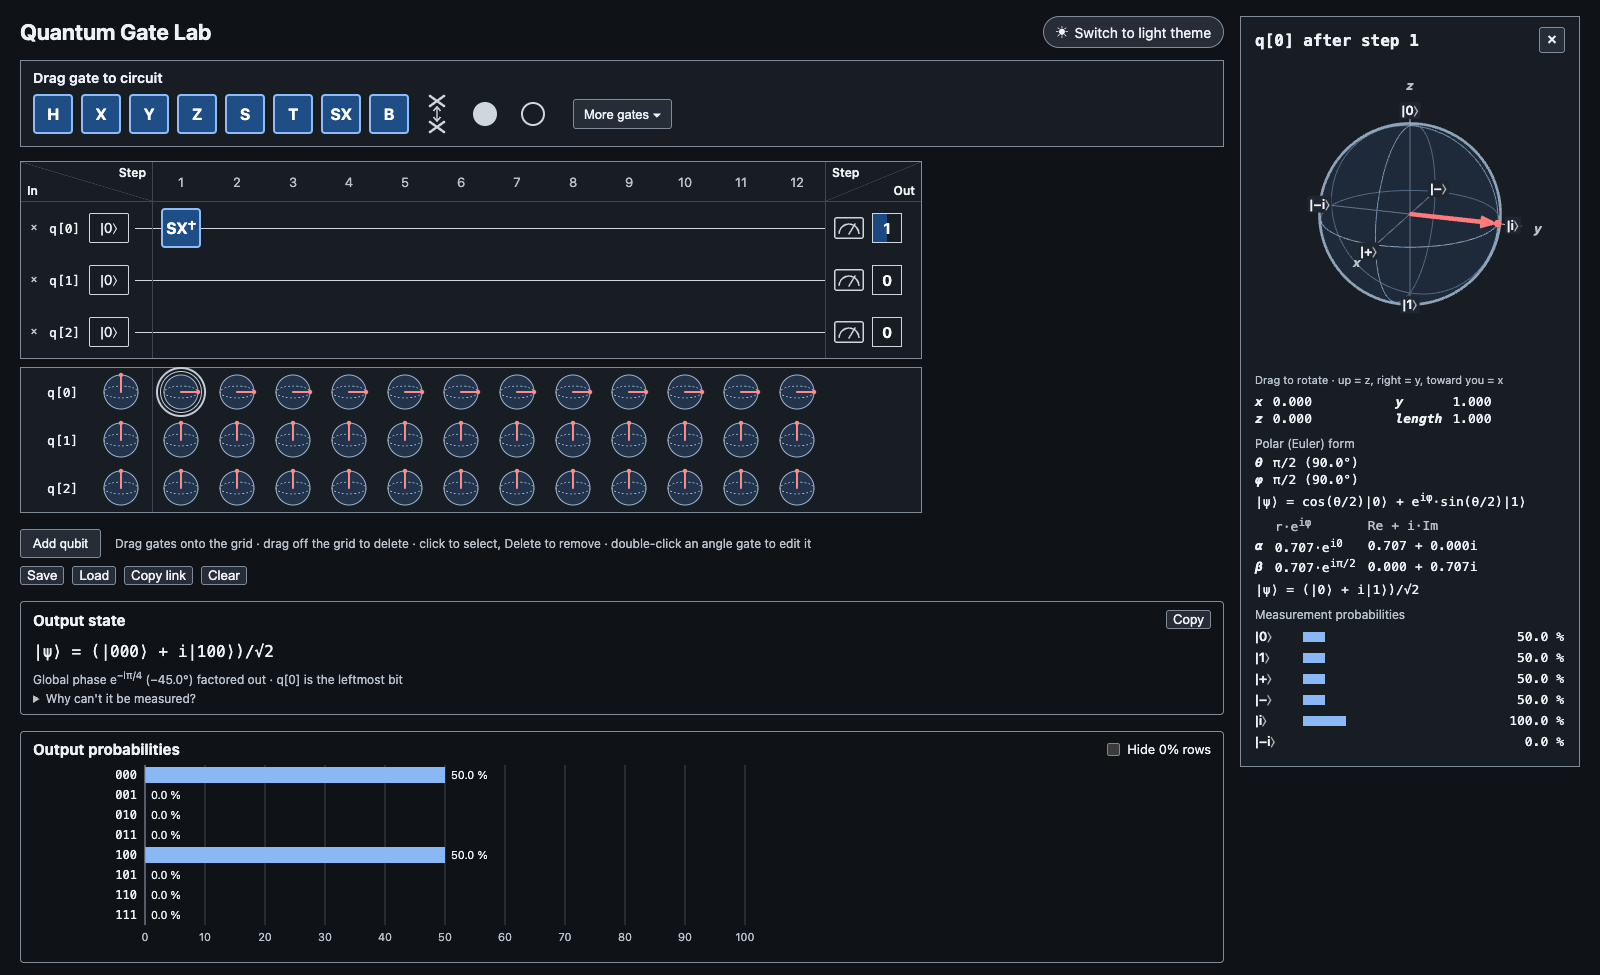
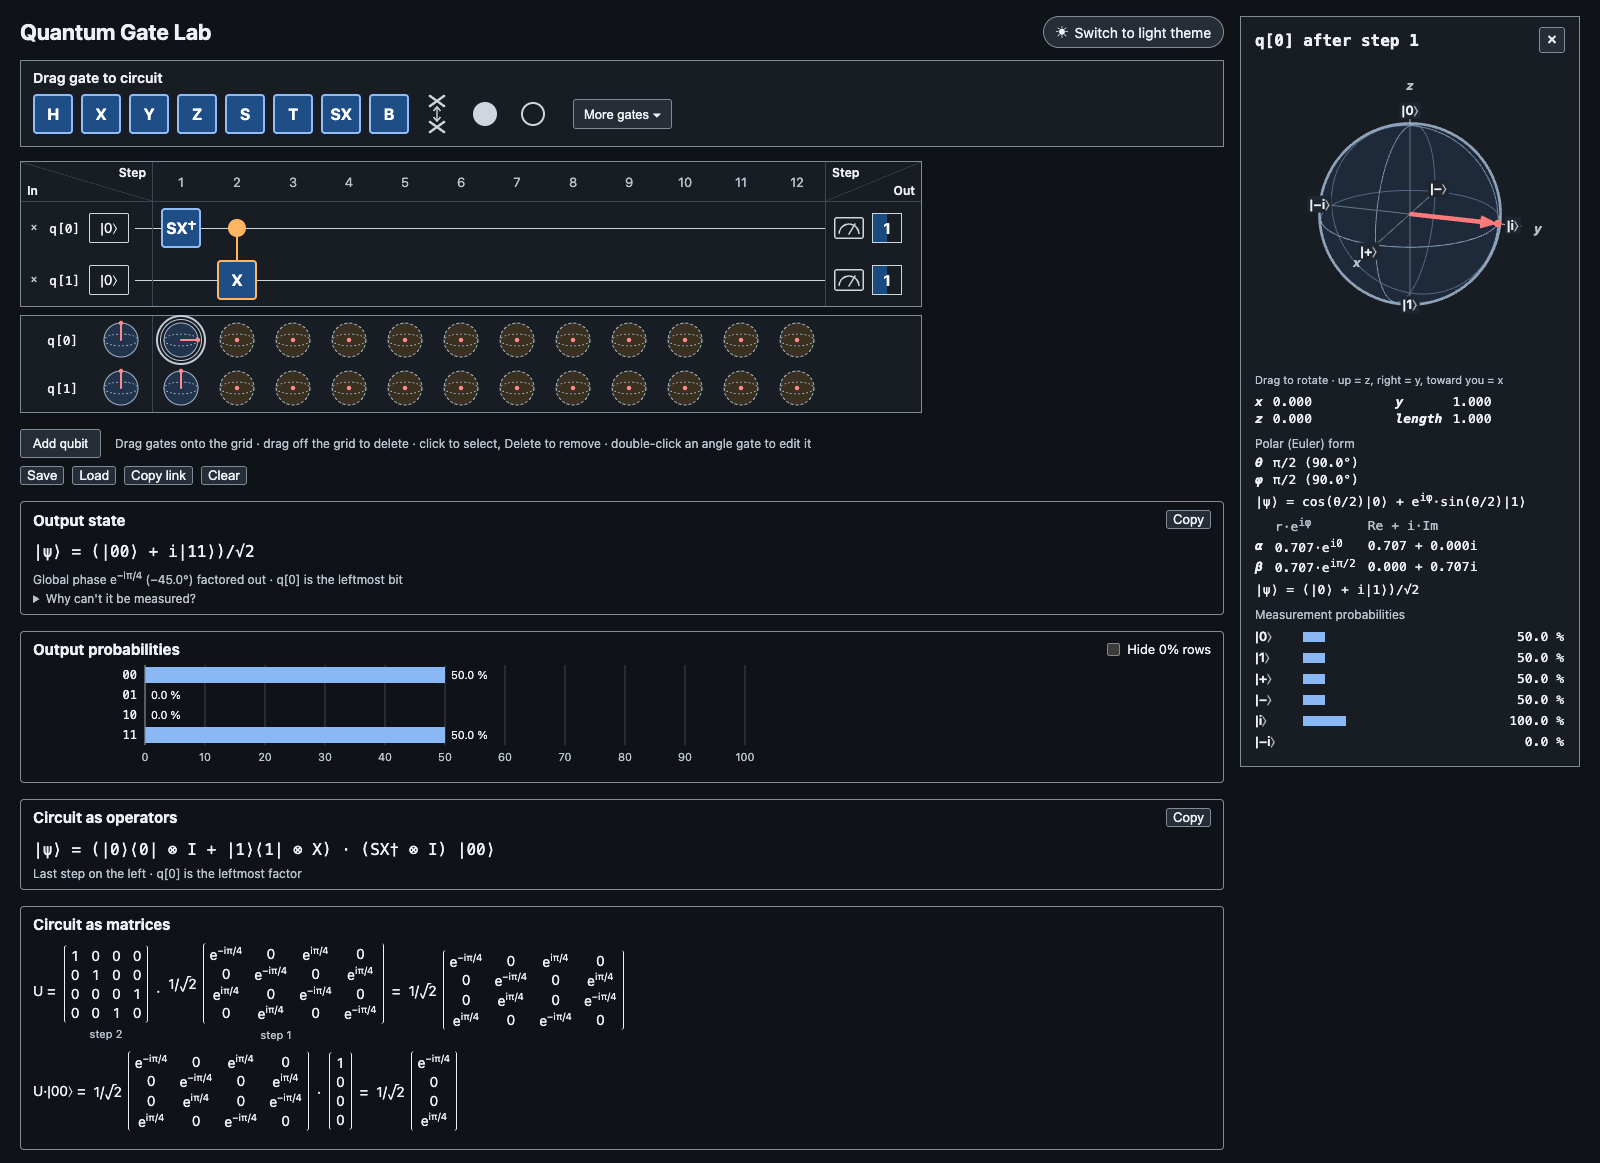
docs: README screenshot with the matrix panel; document global phase and Circuit as matrices

diff --git a/README.md b/README.md
@@ -1,10 +1,10 @@
 # Quantum Gate Lab
 
-A browser-based quantum circuit simulator. Drag gates onto up to 10 qubit wires, see per-step Bloch spheres and the output probability distribution update live. Circuits can be saved/loaded as JSON or shared as a link (the circuit is encoded in the URL hash). 
+A browser-based quantum circuit simulator. Drag gates onto up to 10 qubit wires, see per-step Bloch spheres and the output probability distribution update live, and read the result as a ket, as a Dirac operator product and as a matrix multiplication. Circuits can be saved/loaded as JSON or shared as a link (the circuit is encoded in the URL hash).
 
-![Quantum Gate Lab: an SX† gate puts q[0] into |i⟩, shown on its Bloch sphere](docs/images/screenshot.png)
+![Quantum Gate Lab in the dark theme: SX† and a CNOT entangle two qubits; the Bloch panel, output state, probabilities, operator product and step matrices are shown](docs/images/screenshot.png)
 
-*An SX† (√X†) gate takes q[0] from |0⟩ to |i⟩: the arrow points along +y and P(|i⟩) = 100 %.*
+*An SX† (√X†) gate takes q[0] from |0⟩ to |i⟩ (Bloch panel: the arrow points along +y, P(|i⟩) = 100 %). A CNOT then entangles it with q[1], giving (|00⟩ + i|11⟩)/√2 with a global phase e<sup>−iπ/4</sup>. The bottom panels show the same circuit as an operator product and as step matrices, their product U and U·|00⟩.*
 
 ## Run
 
@@ -43,8 +43,16 @@ npm run typecheck
 - q[0] is the leftmost (most significant) bit: `0100` means q1 = 1.
 - The Bloch panel also shows polar angles θ (from +z) and φ (from +x toward +y) and, for pure states, the state |ψ⟩ = cos(θ/2)|0⟩ + e<sup>iφ</sup>·sin(θ/2)|1⟩ (global phase dropped), written symbolically where the amplitudes are known values, e.g. (|0⟩ − |1⟩)/√2, and in decimals otherwise. φ is undefined at the poles and both angles are undefined for a fully mixed qubit. Below the formula a table lists each amplitude α, β in Euler form r·e<sup>iφ</sup> and as Re + i·Im, followed by the state in ket form.
 - Rotation angles are expressions such as `pi/2` or `3*π/4`. A gate whose angle cannot be parsed (e.g. `pi/`) is drawn red and skipped (it acts as the identity); a warning above the toolbar lists each skipped gate with its step, wires and angle, and a Fix… button that opens its angle dialog.
-- The Output state panel shows the final pure state in ket notation, e.g. (|00⟩ + |11⟩)/√2, global phase dropped. Amplitudes of the form √(p/q) and phases that are multiples of π/12 are written symbolically (1/√2, √3/2, i, e<sup>iπ/4</sup>), others as decimals; a common magnitude 1/√k is factored out. A mixed state (after measure/reset) shows its purity Tr ρ² instead.
+- The Output state panel shows the final pure state in ket notation, e.g. (|00⟩ + |11⟩)/√2. Amplitudes of the form √(p/q) and phases that are multiples of π/12 are written symbolically (1/√2, √3/2, i, e<sup>iπ/4</sup>), others as decimals; a common magnitude 1/√k is factored out. The global phase is factored out of the formula (so equal states look equal) and shown on the line below, e.g. "Global phase e<sup>i3π/4</sup> (135.0°) factored out", or "none". After measure/reset it is "unknown", because the density matrix does not keep it. "Why can't it be measured?" opens a short explanation: it changes no probability, its value depends on the gate convention (T and RZ(π/4) differ by e<sup>−iπ/8</sup>), and it becomes measurable as phase kickback when the gates are controlled. A mixed state (after measure/reset) shows its purity Tr ρ² instead.
 - The Circuit as operators panel, below the probabilities, writes the circuit as an unsimplified Dirac operator product, e.g. |ψ⟩ = (|0⟩⟨0| ⊗ I + |1⟩⟨1| ⊗ X) · (H ⊗ I) |00⟩: last step leftmost, q[0] the leftmost factor, controls as sums of projectors, qubit subscripts (SWAP₀,₂) when a two-qubit gate spans non-adjacent or reversed wires. It ends before the first measure/reset, and Copy puts the line on the clipboard as Unicode text.
+- The Circuit as matrices panel, below it, writes the same circuit as a matrix multiplication for up to 4 qubits:
+  - **First line:** each step as its full 2ⁿ×2ⁿ matrix (last step leftmost, captioned with its step number), then `=` and the circuit matrix U.
+  - **Second line:** U·|input⟩, with the input and output state as columns.
+  - **Building and writing the matrices:** each step matrix is built with the simulator itself, so the bit order and controls always match the simulation. Entries are written symbolically like the ket, and a common magnitude such as 1/√2 is factored out in front.
+  - **Differences from the Output state panel:** the output column keeps the global phase.
+  - **Long circuits:** step matrices are hidden above 4096 cells in total (16 steps at 4 qubits); U and the output are still shown.
+  - **Measure/reset:** like the operator panel, the calculation ends before the first measure/reset.
+  - **Wide lines:** they wrap, and a single matrix wider than the panel scrolls sideways.
 - Hovering a gate or control (in the palette or on the circuit) for a moment, or focusing it with the keyboard, opens a gate card: name, a short description, what it does to basis states, and its matrix. On the circuit the card adds a Here section: qubit and step, the angle with the evaluated matrix, and for controlled gates the block matrix with the controls first in the basis order, e.g. CCX = [[I₆, 0], [0, X]], plus the projector form. Click a palette item to pin its card; Esc closes the card (a second Esc clears the selection).
 - Controls (filled = on 1, hollow = on 0) in a step apply to every unitary gate in that step.
 - The B gate is a Bell-pair gate (H on one wire, then CNOT): the dot marks its H/control end; the other end is the CNOT target.
